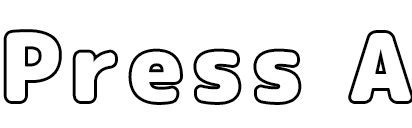
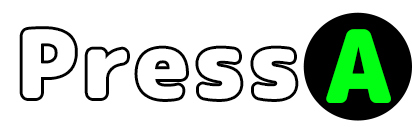
titleの背景、UIの更新

diff --git a/2025afterGame/GameSources/Scene.cpp b/2025afterGame/GameSources/Scene.cpp
@@ -107,6 +107,9 @@ namespace basecross{
 		startTex = uiTitlePath + L"rogo.png";
 		App::GetApp()->RegisterTexture(L"rogo_TX", startTex);
 
+		startTex = uiTitlePath + L"TitleBackGround.png";
+		App::GetApp()->RegisterTexture(L"TitleBackGround_TX", startTex);
+
 		auto remainingRounds = uiPlayerPath + L"RemainingRounds.png";
 		app->RegisterTexture(L"RemainingRounds", remainingRounds);
 
